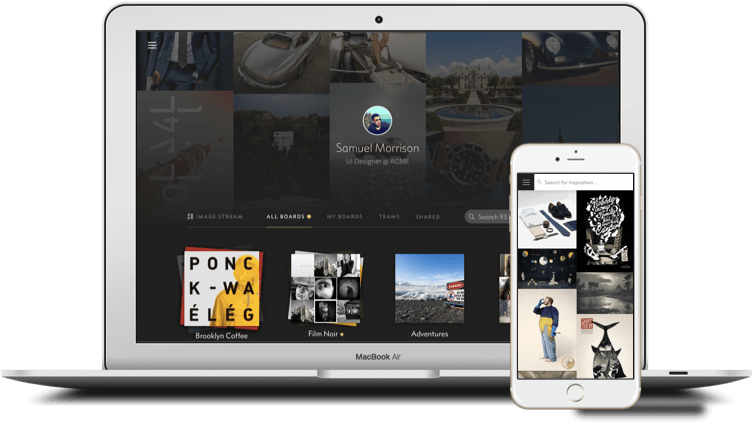
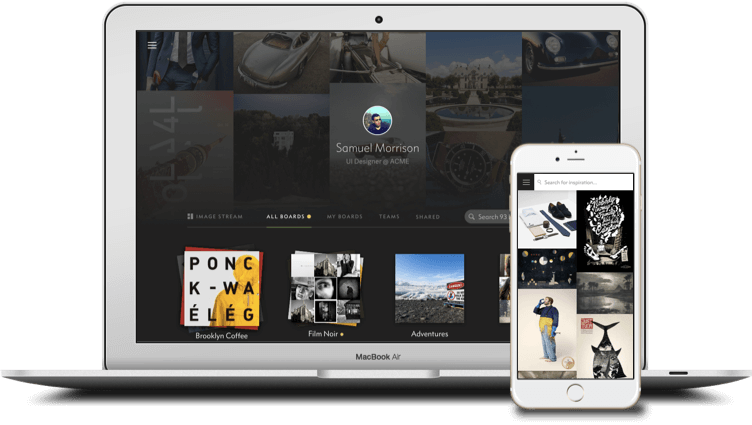
Fixed footer fade

Changed region(s): [[0.8258, 0.9176, 0.9481, 1.0], [0.6729, 0.9482, 0.7952, 1.0]]

diff --git a/_site/dist/css/style.css b/_site/dist/css/style.css
@@ -1,1 +1,1 @@
-body,figure,h1,h2,h3,h4,h5,h6,html,li,ol,p,ul{margin:0;padding:0}::selection,a,body{color:#3F3F3B}h2,h3,h4,h5,h6,nav{font-family:aktiv-grotesk,sans-serif}.button:focus,footer input[type=email]:focus,footer input[type=text]:focus{outline:0}.bd-home h1+p,article .narrow ol,article .narrow ul,h1,h2,h3,h4,h5,h6,nav,p{-webkit-font-smoothing:antialiased;-moz-osx-font-smoothing:grayscale}.bd-home h1+p,.header-tall,article .narrow ol,article .narrow ul,footer .button,h1,h2,h3,h4,h5,h6,nav,p{-webkit-font-smoothing:antialiased}.list-inline,.post-list,nav ul{list-style-type:none}::-moz-selection{color:#3F3F3B;background:gold}::selection{background:gold}*{box-sizing:border-box}body{line-height:1.4;font-family:ff-spinoza-web-pro,serif;font-size:14px}@media screen and (min-width:545px){body{font-size:16px}}p{font-size:1.31em;margin-bottom:1.4em}li{margin-bottom:.8em}h1{font-size:1.5em}h2,h3,h4,h5,h6{text-transform:uppercase;font-weight:700;font-size:1.19em;letter-spacing:3.5px;text-align:center}hr{border:none;margin:4.6em 0}hr.invisible{visibility:hidden}a{text-decoration:none;text-shadow:0 2px 0 #fff,2px 2px 0 #fff,-2px 2px 0 #fff;border-bottom:1px solid rgba(63,63,59,.2)}.no-underline,a:hover{border-bottom:none}.no-underline,a:hover,nav ul li a{text-shadow:none}a.logo{border:none}img{max-width:100%;height:auto}.heading-1,.heading-2,.heading-3{max-width:925px;display:block}.heading-2{max-width:873px}@media screen and (min-width:640px){.heading-2{margin-top:-1.6em;margin-bottom:-1em}}.heading-3{max-width:34vw}@media screen and (min-width:700px){.heading-3{max-width:273px}}.nav-get-in-touch{background:#fff;color:#000;mix-blend-mode:lighten;padding:.3em .6em}.container{max-width:78.88em;padding:0 1em;margin:0 auto}hr.crest,nav ul{margin-bottom:0}@media screen and (min-width:640px){.container{padding:0 2.6em}}.container.narrow{max-width:46.1em}hr{height:15px;background:url(../../img/hr.png)center center no-repeat;background-size:contain}hr.crest{height:60px;background-image:url(../../img/crest.png)}nav{padding:3.2em 0}nav.dark ul li a{color:#3F3F3B}nav.dark ul li a:hover{border-color:#3F3F3B}nav.dark ul li a.nav-get-in-touch{-webkit-transition:all .36s ease;transition:all .36s ease;border:none;background:#3F3F3B;color:#fff;mix-blend-mode:darken;padding:.3em .6em}nav.dark ul li a.nav-get-in-touch:hover{border:none;background:rgba(63,63,59,.2);color:#3F3F3B}nav ul{font-weight:700;font-size:1.06em;float:right;margin-top:.5em;white-space:nowrap;overflow-x:scroll;overflow-y:hidden;-webkit-overflow-scrolling:touch}.cover,footer,footer form{overflow:hidden}@media screen and (max-width:520px){nav ul{width:calc(100% - 38px)}}nav ul li{display:inline}nav ul li a{display:inline-block;margin-left:1.6em;color:#fff;border:none}nav ul li a.nav-get-in-touch{-webkit-transition:all .36s ease;transition:all .36s ease;border:none}nav ul li a.nav-get-in-touch:hover{border:none;background:rgba(255,255,255,.2);color:#fff}nav ul li a:hover{border-bottom:2px solid #fff}.cover{background:url(../../img/bg.jpg)center center no-repeat #3F3F3B;background-size:cover;max-height:100vh;margin-bottom:4.6em}.bd-home h1{margin:1.6em 0 1em}.bd-home h1+p{font-size:1.31em;opacity:1;max-width:22.2em;color:#fff;margin-bottom:2em;text-shadow:0 2px 6px rgba(0,0,0,.9)}.bd-home h2{margin-bottom:5.6em}.signature{display:inline-block;max-width:5.5em;max-height:3.38em;background-size:contain;margin-bottom:1.6em}@media screen and (min-width:612px){.signature{margin-top:-5.9em;margin-bottom:0;float:right}}.project{background:rgba(63,63,59,.1);position:relative;padding:2em 2.6em;margin-bottom:8.47em}@media screen and (min-width:1025px){.project{padding:3.6em 4.6em}}.project h3{text-align:left;margin-bottom:0}.article-cover p,.center,.title-big,article header h1,footer{text-align:center}.project.luha img,.project.niice img{right:auto;left:-4em}.project.lagom a,.project.lagom h3,.project.lagom p,.project.luha a,.project.luha h3,.project.luha p,.project.niice a,.project.niice h3,.project.niice p{color:#fff}.project img{pointer-events:none;margin-bottom:-6em}@media screen and (min-width:890px){.project img{position:absolute;bottom:-3em;right:-4em;margin-bottom:0;max-width:64%}}.project.luha:before,footer:before{content:'';top:0;left:0;right:0}.project.lagom a,.project.luha a,.project.niice a{color:#fff;border-bottom-color:#fff}.project.lagom a.no-underline,.project.luha a.no-underline,.project.niice a.no-underline{border-bottom:1px solid #fff}.project.lagom a.no-underline:hover,.project.luha a.no-underline:hover,.project.niice a.no-underline:hover{border-bottom:none}.project.lagom{background:url(../../img/bg-lagom.jpg)center center no-repeat #3F3F3B;background-size:cover}.project.luha,.project.niice{background:url(../../img/bg-luha.jpg)center center no-repeat #3F3F3B;background-size:cover}.project.luha h3,.project.luha p,.project.niice h3,.project.niice p{color:#fff}@media screen and (min-width:890px){.project .content{max-width:43%}.project.luha .content,.project.niice .content{margin-left:56%}}.project.luha:before{position:absolute;bottom:0;background:#171616;opacity:.2}.project.luha h3,.project.luha p,footer{position:relative}.project.niice{background:url(../../img/bg-niice.jpg)center center no-repeat #3F3F3B;background-size:cover}.project.niice h3,.project.niice p{color:#fff}.project .small-sans{opacity:.4}.project.lagom .small-sans{mix-blend-mode:overlay;opacity:.8}.header-tall{font-family:alternate-gothic-no-2-d,sans-serif;font-size:3.63em;letter-spacing:-.25px;text-transform:uppercase}.list-inline li{display:inline}.inline-block{display:inline-block}footer{color:#fff;padding:7.2em 1em 0;background:url(../../img/logs.jpg)center center no-repeat}footer:before{position:absolute;height:46px;background:url(../../img/footer-stripe.png)0 center repeat-x;background-size:1440px 46px}footer label{display:none}footer input[type=email],footer input[type=text]{padding:.6em .6em .3em;border:none;font-family:ff-spinoza-web-pro,serif;display:inline-block;vertical-align:top;font-size:1.31em;letter-spacing:-.13px;line-height:24px;-webkit-font-smoothing:antialiased}.small-sans,footer .copy,footer ul{text-transform:uppercase;font-family:aktiv-grotesk,sans-serif}footer .button{vertical-align:top;padding:.5em .8em .4em}footer form{background:#fff;display:inline-block;margin-bottom:2em;border:2px solid}.button,footer ul a{color:#fff;border:none}footer p{max-width:433px;margin:0 auto 1.6em}footer hr.crest,footer ul{margin-bottom:1.6em}footer ul{font-size:.81em;letter-spacing:1px}footer ul a{display:inline-block;padding:0 1em}footer .copy{font-size:.81em;opacity:.6;margin-bottom:2.6em}.small-sans{font-size:.88em;font-weight:700;letter-spacing:.87px}.button{background:#0D2237;font-family:alternate-gothic-no-2-d,sans-serif;font-size:1.44em;letter-spacing:.6px;cursor:pointer;-webkit-appearance:none;text-transform:uppercase}article{margin-bottom:5.6em}article .narrow ol,article .narrow ul{font-size:1.31em;margin-bottom:1.6em;margin-left:1em}article .narrow ol li,article .narrow ul li{margin-bottom:.7em}article header{padding:0 0 5.6em;margin-bottom:2.6em;position:relative}article header h1{font-size:2.88em;line-height:1.2;margin-bottom:.3em}article header .date{text-align:center;font-size:1.19em;letter-spacing:-.13px;line-height:24px;margin-bottom:2.6em}article .container.narrow p:first-of-type{font-size:1.56em;letter-spacing:-.15px}.article-cover{color:#fff;min-height:90vh}@media screen and (min-height:640px){.article-cover .meta{position:absolute;bottom:0;left:0;right:0}}.article-cover p{font-size:1.31em;letter-spacing:-.13px;max-width:642px;margin:0 auto 1em}.center{display:-webkit-box;display:-webkit-flex;display:-ms-flexbox;display:flex;-webkit-box-align:center;-webkit-align-items:center;-ms-flex-align:center;align-items:center;-webkit-box-pack:center;-webkit-justify-content:center;-ms-flex-pack:center;justify-content:center}.meta{padding:1em}.meta.gradient{padding-top:1em;background-image:-webkit-linear-gradient(270deg,rgba(55,55,55,0) 0,#373737 100%);background-image:linear-gradient(-180deg,rgba(55,55,55,0) 0,#373737 100%)}.post-list li{margin-bottom:4.236em}.post-list .date{opacity:.6}.title-big{font-size:4.6em;margin:.6em 0 1em}
+body,figure,h1,h2,h3,h4,h5,h6,html,li,ol,p,ul{margin:0;padding:0}::selection,a,body{color:#3F3F3B}h2,h3,h4,h5,h6,nav{font-family:aktiv-grotesk,sans-serif}.button:focus,footer input[type=email]:focus,footer input[type=text]:focus{outline:0}.bd-home h1+p,article .narrow ol,article .narrow ul,h1,h2,h3,h4,h5,h6,nav,p{-webkit-font-smoothing:antialiased;-moz-osx-font-smoothing:grayscale}.bd-home h1+p,.header-tall,article .narrow ol,article .narrow ul,footer .button,h1,h2,h3,h4,h5,h6,nav,p{-webkit-font-smoothing:antialiased}.list-inline,.post-list,nav ul{list-style-type:none}::-moz-selection{color:#3F3F3B;background:gold}::selection{background:gold}*{box-sizing:border-box}body{line-height:1.4;font-family:ff-spinoza-web-pro,serif;font-size:14px}@media screen and (min-width:545px){body{font-size:16px}}p{font-size:1.31em;margin-bottom:1.4em}li{margin-bottom:.8em}h1{font-size:1.5em}h2,h3,h4,h5,h6{text-transform:uppercase;font-weight:700;font-size:1.19em;letter-spacing:3.5px;text-align:center}hr{border:none;margin:4.6em 0}hr.invisible{visibility:hidden}a{text-decoration:none;text-shadow:0 2px 0 #fff,2px 2px 0 #fff,-2px 2px 0 #fff;border-bottom:1px solid rgba(63,63,59,.2)}.no-underline,a:hover{border-bottom:none}.no-underline,a:hover,nav ul li a{text-shadow:none}a.logo{border:none}img{max-width:100%;height:auto}.heading-1,.heading-2,.heading-3{max-width:925px;display:block}.heading-2{max-width:873px}@media screen and (min-width:640px){.heading-2{margin-top:-1.6em;margin-bottom:-1em}}.heading-3{max-width:34vw}@media screen and (min-width:700px){.heading-3{max-width:273px}}.nav-get-in-touch{background:#fff;color:#000;mix-blend-mode:lighten;padding:.3em .6em}.container{max-width:78.88em;padding:0 1em;margin:0 auto}hr.crest,nav ul{margin-bottom:0}@media screen and (min-width:640px){.container{padding:0 2.6em}}.container.narrow{max-width:46.1em}hr{height:15px;background:url(../../img/hr.png)center center no-repeat;background-size:contain}hr.crest{height:60px;background-image:url(../../img/crest.png)}nav{padding:3.2em 0}nav.dark ul li a{color:#3F3F3B}nav.dark ul li a:hover{border-color:#3F3F3B}nav.dark ul li a.nav-get-in-touch{-webkit-transition:all .36s ease;transition:all .36s ease;border:none;background:#3F3F3B;color:#fff;mix-blend-mode:darken;padding:.3em .6em}nav.dark ul li a.nav-get-in-touch:hover{border:none;background:rgba(63,63,59,.2);color:#3F3F3B}nav ul{font-weight:700;font-size:1.06em;float:right;margin-top:.5em;white-space:nowrap;overflow-x:scroll;overflow-y:hidden;-webkit-overflow-scrolling:touch}.cover,footer,footer form{overflow:hidden}@media screen and (max-width:520px){nav ul{width:calc(100% - 38px)}}nav ul li{display:inline}nav ul li a{display:inline-block;margin-left:1.6em;color:#fff;border:none}nav ul li a.nav-get-in-touch{-webkit-transition:all .36s ease;transition:all .36s ease;border:none}nav ul li a.nav-get-in-touch:hover{border:none;background:rgba(255,255,255,.2);color:#fff}nav ul li a:hover{border-bottom:2px solid #fff}.cover{background:url(../../img/bg.jpg)center center no-repeat #3F3F3B;background-size:cover;max-height:100vh;margin-bottom:4.6em}.bd-home h1{margin:1.6em 0 1em}.bd-home h1+p{font-size:1.31em;opacity:1;max-width:22.2em;color:#fff;margin-bottom:2em;text-shadow:0 2px 6px rgba(0,0,0,.9)}.bd-home h2{margin-bottom:5.6em}.signature{display:inline-block;max-width:5.5em;max-height:3.38em;background-size:contain;margin-bottom:1.6em}@media screen and (min-width:612px){.signature{margin-top:-5.9em;margin-bottom:0;float:right}}.project{background:rgba(63,63,59,.1);position:relative;padding:2em 2.6em;margin-bottom:8.47em}@media screen and (min-width:1025px){.project{padding:3.6em 4.6em}}.project h3{text-align:left;margin-bottom:0}.article-cover p,.center,.title-big,article header h1,footer{text-align:center}.project.luha img,.project.niice img{right:auto;left:-4em}.project.lagom a,.project.lagom h3,.project.lagom p,.project.luha a,.project.luha h3,.project.luha p,.project.niice a,.project.niice h3,.project.niice p{color:#fff}.project img{pointer-events:none;margin-bottom:-6em}.project.lagom a,.project.luha a,.project.niice a{color:#fff;border-bottom-color:#fff}.project.lagom a.no-underline,.project.luha a.no-underline,.project.niice a.no-underline{border-bottom:1px solid #fff}.project.lagom a.no-underline:hover,.project.luha a.no-underline:hover,.project.niice a.no-underline:hover{border-bottom:none}.project.lagom{background:url(../../img/bg-lagom.jpg)center center no-repeat #3F3F3B;background-size:cover}.project.luha,.project.niice{background:url(../../img/bg-luha.jpg)center center no-repeat #3F3F3B;background-size:cover}.project.luha h3,.project.luha p,.project.niice h3,.project.niice p{color:#fff}@media screen and (min-width:890px){.project img{position:absolute;bottom:-3em;right:-4em;margin-bottom:0;max-width:64%}.project .content{max-width:43%}.project.luha .content,.project.niice .content{margin-left:56%}}.project.luha:before{content:'';position:absolute;top:0;left:0;bottom:0;right:0;background:#171616;opacity:.2}#mc_embed_signup,.project.luha h3,.project.luha p,footer{position:relative}.project.niice{background:url(../../img/bg-niice.jpg)center center no-repeat #3F3F3B;background-size:cover}.project.niice h3,.project.niice p{color:#fff}.project .small-sans{opacity:.4}.project.lagom .small-sans{mix-blend-mode:overlay;opacity:.8}.header-tall{font-family:alternate-gothic-no-2-d,sans-serif;font-size:3.63em;letter-spacing:-.25px;text-transform:uppercase}.list-inline li{display:inline}.inline-block{display:inline-block}#mc_embed_signup{z-index:2}footer:after,footer:before{content:'';position:absolute;left:0;right:0}footer{color:#fff;padding:7.2em 1em 0;background:url(../../img/logs.jpg)center center no-repeat}footer:after{bottom:0;background-image:-webkit-linear-gradient(270deg,rgba(12,34,55,0) 0,#0D2237 100%);background-image:linear-gradient(-180deg,rgba(12,34,55,0) 0,#0D2237 100%);height:50%;z-index:1}footer:before{top:0;height:46px;background:url(../../img/footer-stripe.png)0 center repeat-x;background-size:1440px 46px}footer label{display:none}footer input[type=email],footer input[type=text]{padding:.6em .6em .3em;border:none;font-family:ff-spinoza-web-pro,serif;display:inline-block;vertical-align:top;font-size:1.31em;letter-spacing:-.13px;line-height:24px;-webkit-font-smoothing:antialiased}.small-sans,footer .copy,footer ul{text-transform:uppercase;font-family:aktiv-grotesk,sans-serif}footer .button{vertical-align:top;padding:.5em .8em .4em}footer form{background:#fff;display:inline-block;margin-bottom:2em;border:2px solid}.button,footer ul a{color:#fff;border:none}footer p{max-width:433px;margin:0 auto 1.6em}footer hr.crest,footer ul{margin-bottom:1.6em}footer ul{font-size:.81em;letter-spacing:1px}footer ul a{display:inline-block;padding:0 1em}footer .copy{font-size:.81em;opacity:.6;margin-bottom:2.6em}.small-sans{font-size:.88em;font-weight:700;letter-spacing:.87px}.button{background:#0D2237;font-family:alternate-gothic-no-2-d,sans-serif;font-size:1.44em;letter-spacing:.6px;cursor:pointer;-webkit-appearance:none;text-transform:uppercase}article{margin-bottom:5.6em}article .narrow ol,article .narrow ul{font-size:1.31em;margin-bottom:1.6em;margin-left:1em}article .narrow ol li,article .narrow ul li{margin-bottom:.7em}article header{padding:0 0 5.6em;margin-bottom:2.6em;position:relative}article header h1{font-size:2.88em;line-height:1.2;margin-bottom:.3em}article header .date{text-align:center;font-size:1.19em;letter-spacing:-.13px;line-height:24px;margin-bottom:2.6em}article .container.narrow p:first-of-type{font-size:1.56em;letter-spacing:-.15px}.article-cover{color:#fff;min-height:90vh}@media screen and (min-height:640px){.article-cover .meta{position:absolute;bottom:0;left:0;right:0}}.article-cover p{font-size:1.31em;letter-spacing:-.13px;max-width:642px;margin:0 auto 1em}.center{display:-webkit-box;display:-webkit-flex;display:-ms-flexbox;display:flex;-webkit-box-align:center;-webkit-align-items:center;-ms-flex-align:center;align-items:center;-webkit-box-pack:center;-webkit-justify-content:center;-ms-flex-pack:center;justify-content:center}.meta{padding:1em}.meta.gradient{padding-top:1em;background-image:-webkit-linear-gradient(270deg,rgba(55,55,55,0) 0,#373737 100%);background-image:linear-gradient(-180deg,rgba(55,55,55,0) 0,#373737 100%)}.post-list li{margin-bottom:4.236em}.post-list .date{opacity:.6}.title-big{font-size:4.6em;margin:.6em 0 1em}

diff --git a/dist/css/style.css b/dist/css/style.css
@@ -1,1 +1,1 @@
-body,figure,h1,h2,h3,h4,h5,h6,html,li,ol,p,ul{margin:0;padding:0}::selection,a,body{color:#3F3F3B}h2,h3,h4,h5,h6,nav{font-family:aktiv-grotesk,sans-serif}.button:focus,footer input[type=email]:focus,footer input[type=text]:focus{outline:0}.bd-home h1+p,article .narrow ol,article .narrow ul,h1,h2,h3,h4,h5,h6,nav,p{-webkit-font-smoothing:antialiased;-moz-osx-font-smoothing:grayscale}.bd-home h1+p,.header-tall,article .narrow ol,article .narrow ul,footer .button,h1,h2,h3,h4,h5,h6,nav,p{-webkit-font-smoothing:antialiased}.list-inline,.post-list,nav ul{list-style-type:none}::-moz-selection{color:#3F3F3B;background:gold}::selection{background:gold}*{box-sizing:border-box}body{line-height:1.4;font-family:ff-spinoza-web-pro,serif;font-size:14px}@media screen and (min-width:545px){body{font-size:16px}}p{font-size:1.31em;margin-bottom:1.4em}li{margin-bottom:.8em}h1{font-size:1.5em}h2,h3,h4,h5,h6{text-transform:uppercase;font-weight:700;font-size:1.19em;letter-spacing:3.5px;text-align:center}hr{border:none;margin:4.6em 0}hr.invisible{visibility:hidden}a{text-decoration:none;text-shadow:0 2px 0 #fff,2px 2px 0 #fff,-2px 2px 0 #fff;border-bottom:1px solid rgba(63,63,59,.2)}.no-underline,a:hover{border-bottom:none}.no-underline,a:hover,nav ul li a{text-shadow:none}a.logo{border:none}img{max-width:100%;height:auto}.heading-1,.heading-2,.heading-3{max-width:925px;display:block}.heading-2{max-width:873px}@media screen and (min-width:640px){.heading-2{margin-top:-1.6em;margin-bottom:-1em}}.heading-3{max-width:34vw}@media screen and (min-width:700px){.heading-3{max-width:273px}}.nav-get-in-touch{background:#fff;color:#000;mix-blend-mode:lighten;padding:.3em .6em}.container{max-width:78.88em;padding:0 1em;margin:0 auto}hr.crest,nav ul{margin-bottom:0}@media screen and (min-width:640px){.container{padding:0 2.6em}}.container.narrow{max-width:46.1em}hr{height:15px;background:url(../../img/hr.png)center center no-repeat;background-size:contain}hr.crest{height:60px;background-image:url(../../img/crest.png)}nav{padding:3.2em 0}nav.dark ul li a{color:#3F3F3B}nav.dark ul li a:hover{border-color:#3F3F3B}nav.dark ul li a.nav-get-in-touch{-webkit-transition:all .36s ease;transition:all .36s ease;border:none;background:#3F3F3B;color:#fff;mix-blend-mode:darken;padding:.3em .6em}nav.dark ul li a.nav-get-in-touch:hover{border:none;background:rgba(63,63,59,.2);color:#3F3F3B}nav ul{font-weight:700;font-size:1.06em;float:right;margin-top:.5em;white-space:nowrap;overflow-x:scroll;overflow-y:hidden;-webkit-overflow-scrolling:touch}.cover,footer,footer form{overflow:hidden}@media screen and (max-width:520px){nav ul{width:calc(100% - 38px)}}nav ul li{display:inline}nav ul li a{display:inline-block;margin-left:1.6em;color:#fff;border:none}nav ul li a.nav-get-in-touch{-webkit-transition:all .36s ease;transition:all .36s ease;border:none}nav ul li a.nav-get-in-touch:hover{border:none;background:rgba(255,255,255,.2);color:#fff}nav ul li a:hover{border-bottom:2px solid #fff}.cover{background:url(../../img/bg.jpg)center center no-repeat #3F3F3B;background-size:cover;max-height:100vh;margin-bottom:4.6em}.bd-home h1{margin:1.6em 0 1em}.bd-home h1+p{font-size:1.31em;opacity:1;max-width:22.2em;color:#fff;margin-bottom:2em;text-shadow:0 2px 6px rgba(0,0,0,.9)}.bd-home h2{margin-bottom:5.6em}.signature{display:inline-block;max-width:5.5em;max-height:3.38em;background-size:contain;margin-bottom:1.6em}@media screen and (min-width:612px){.signature{margin-top:-5.9em;margin-bottom:0;float:right}}.project{background:rgba(63,63,59,.1);position:relative;padding:2em 2.6em;margin-bottom:8.47em}@media screen and (min-width:1025px){.project{padding:3.6em 4.6em}}.project h3{text-align:left;margin-bottom:0}.article-cover p,.center,.title-big,article header h1,footer{text-align:center}.project.luha img,.project.niice img{right:auto;left:-4em}.project.lagom a,.project.lagom h3,.project.lagom p,.project.luha a,.project.luha h3,.project.luha p,.project.niice a,.project.niice h3,.project.niice p{color:#fff}.project img{pointer-events:none;margin-bottom:-6em}@media screen and (min-width:890px){.project img{position:absolute;bottom:-3em;right:-4em;margin-bottom:0;max-width:64%}}.project.luha:before,footer:before{content:'';top:0;left:0;right:0}.project.lagom a,.project.luha a,.project.niice a{color:#fff;border-bottom-color:#fff}.project.lagom a.no-underline,.project.luha a.no-underline,.project.niice a.no-underline{border-bottom:1px solid #fff}.project.lagom a.no-underline:hover,.project.luha a.no-underline:hover,.project.niice a.no-underline:hover{border-bottom:none}.project.lagom{background:url(../../img/bg-lagom.jpg)center center no-repeat #3F3F3B;background-size:cover}.project.luha,.project.niice{background:url(../../img/bg-luha.jpg)center center no-repeat #3F3F3B;background-size:cover}.project.luha h3,.project.luha p,.project.niice h3,.project.niice p{color:#fff}@media screen and (min-width:890px){.project .content{max-width:43%}.project.luha .content,.project.niice .content{margin-left:56%}}.project.luha:before{position:absolute;bottom:0;background:#171616;opacity:.2}.project.luha h3,.project.luha p,footer{position:relative}.project.niice{background:url(../../img/bg-niice.jpg)center center no-repeat #3F3F3B;background-size:cover}.project.niice h3,.project.niice p{color:#fff}.project .small-sans{opacity:.4}.project.lagom .small-sans{mix-blend-mode:overlay;opacity:.8}.header-tall{font-family:alternate-gothic-no-2-d,sans-serif;font-size:3.63em;letter-spacing:-.25px;text-transform:uppercase}.list-inline li{display:inline}.inline-block{display:inline-block}footer{color:#fff;padding:7.2em 1em 0;background:url(../../img/logs.jpg)center center no-repeat}footer:before{position:absolute;height:46px;background:url(../../img/footer-stripe.png)0 center repeat-x;background-size:1440px 46px}footer label{display:none}footer input[type=email],footer input[type=text]{padding:.6em .6em .3em;border:none;font-family:ff-spinoza-web-pro,serif;display:inline-block;vertical-align:top;font-size:1.31em;letter-spacing:-.13px;line-height:24px;-webkit-font-smoothing:antialiased}.small-sans,footer .copy,footer ul{text-transform:uppercase;font-family:aktiv-grotesk,sans-serif}footer .button{vertical-align:top;padding:.5em .8em .4em}footer form{background:#fff;display:inline-block;margin-bottom:2em;border:2px solid}.button,footer ul a{color:#fff;border:none}footer p{max-width:433px;margin:0 auto 1.6em}footer hr.crest,footer ul{margin-bottom:1.6em}footer ul{font-size:.81em;letter-spacing:1px}footer ul a{display:inline-block;padding:0 1em}footer .copy{font-size:.81em;opacity:.6;margin-bottom:2.6em}.small-sans{font-size:.88em;font-weight:700;letter-spacing:.87px}.button{background:#0D2237;font-family:alternate-gothic-no-2-d,sans-serif;font-size:1.44em;letter-spacing:.6px;cursor:pointer;-webkit-appearance:none;text-transform:uppercase}article{margin-bottom:5.6em}article .narrow ol,article .narrow ul{font-size:1.31em;margin-bottom:1.6em;margin-left:1em}article .narrow ol li,article .narrow ul li{margin-bottom:.7em}article header{padding:0 0 5.6em;margin-bottom:2.6em;position:relative}article header h1{font-size:2.88em;line-height:1.2;margin-bottom:.3em}article header .date{text-align:center;font-size:1.19em;letter-spacing:-.13px;line-height:24px;margin-bottom:2.6em}article .container.narrow p:first-of-type{font-size:1.56em;letter-spacing:-.15px}.article-cover{color:#fff;min-height:90vh}@media screen and (min-height:640px){.article-cover .meta{position:absolute;bottom:0;left:0;right:0}}.article-cover p{font-size:1.31em;letter-spacing:-.13px;max-width:642px;margin:0 auto 1em}.center{display:-webkit-box;display:-webkit-flex;display:-ms-flexbox;display:flex;-webkit-box-align:center;-webkit-align-items:center;-ms-flex-align:center;align-items:center;-webkit-box-pack:center;-webkit-justify-content:center;-ms-flex-pack:center;justify-content:center}.meta{padding:1em}.meta.gradient{padding-top:1em;background-image:-webkit-linear-gradient(270deg,rgba(55,55,55,0) 0,#373737 100%);background-image:linear-gradient(-180deg,rgba(55,55,55,0) 0,#373737 100%)}.post-list li{margin-bottom:4.236em}.post-list .date{opacity:.6}.title-big{font-size:4.6em;margin:.6em 0 1em}
+body,figure,h1,h2,h3,h4,h5,h6,html,li,ol,p,ul{margin:0;padding:0}::selection,a,body{color:#3F3F3B}h2,h3,h4,h5,h6,nav{font-family:aktiv-grotesk,sans-serif}.button:focus,footer input[type=email]:focus,footer input[type=text]:focus{outline:0}.bd-home h1+p,article .narrow ol,article .narrow ul,h1,h2,h3,h4,h5,h6,nav,p{-webkit-font-smoothing:antialiased;-moz-osx-font-smoothing:grayscale}.bd-home h1+p,.header-tall,article .narrow ol,article .narrow ul,footer .button,h1,h2,h3,h4,h5,h6,nav,p{-webkit-font-smoothing:antialiased}.list-inline,.post-list,nav ul{list-style-type:none}::-moz-selection{color:#3F3F3B;background:gold}::selection{background:gold}*{box-sizing:border-box}body{line-height:1.4;font-family:ff-spinoza-web-pro,serif;font-size:14px}@media screen and (min-width:545px){body{font-size:16px}}p{font-size:1.31em;margin-bottom:1.4em}li{margin-bottom:.8em}h1{font-size:1.5em}h2,h3,h4,h5,h6{text-transform:uppercase;font-weight:700;font-size:1.19em;letter-spacing:3.5px;text-align:center}hr{border:none;margin:4.6em 0}hr.invisible{visibility:hidden}a{text-decoration:none;text-shadow:0 2px 0 #fff,2px 2px 0 #fff,-2px 2px 0 #fff;border-bottom:1px solid rgba(63,63,59,.2)}.no-underline,a:hover{border-bottom:none}.no-underline,a:hover,nav ul li a{text-shadow:none}a.logo{border:none}img{max-width:100%;height:auto}.heading-1,.heading-2,.heading-3{max-width:925px;display:block}.heading-2{max-width:873px}@media screen and (min-width:640px){.heading-2{margin-top:-1.6em;margin-bottom:-1em}}.heading-3{max-width:34vw}@media screen and (min-width:700px){.heading-3{max-width:273px}}.nav-get-in-touch{background:#fff;color:#000;mix-blend-mode:lighten;padding:.3em .6em}.container{max-width:78.88em;padding:0 1em;margin:0 auto}hr.crest,nav ul{margin-bottom:0}@media screen and (min-width:640px){.container{padding:0 2.6em}}.container.narrow{max-width:46.1em}hr{height:15px;background:url(../../img/hr.png)center center no-repeat;background-size:contain}hr.crest{height:60px;background-image:url(../../img/crest.png)}nav{padding:3.2em 0}nav.dark ul li a{color:#3F3F3B}nav.dark ul li a:hover{border-color:#3F3F3B}nav.dark ul li a.nav-get-in-touch{-webkit-transition:all .36s ease;transition:all .36s ease;border:none;background:#3F3F3B;color:#fff;mix-blend-mode:darken;padding:.3em .6em}nav.dark ul li a.nav-get-in-touch:hover{border:none;background:rgba(63,63,59,.2);color:#3F3F3B}nav ul{font-weight:700;font-size:1.06em;float:right;margin-top:.5em;white-space:nowrap;overflow-x:scroll;overflow-y:hidden;-webkit-overflow-scrolling:touch}.cover,footer,footer form{overflow:hidden}@media screen and (max-width:520px){nav ul{width:calc(100% - 38px)}}nav ul li{display:inline}nav ul li a{display:inline-block;margin-left:1.6em;color:#fff;border:none}nav ul li a.nav-get-in-touch{-webkit-transition:all .36s ease;transition:all .36s ease;border:none}nav ul li a.nav-get-in-touch:hover{border:none;background:rgba(255,255,255,.2);color:#fff}nav ul li a:hover{border-bottom:2px solid #fff}.cover{background:url(../../img/bg.jpg)center center no-repeat #3F3F3B;background-size:cover;max-height:100vh;margin-bottom:4.6em}.bd-home h1{margin:1.6em 0 1em}.bd-home h1+p{font-size:1.31em;opacity:1;max-width:22.2em;color:#fff;margin-bottom:2em;text-shadow:0 2px 6px rgba(0,0,0,.9)}.bd-home h2{margin-bottom:5.6em}.signature{display:inline-block;max-width:5.5em;max-height:3.38em;background-size:contain;margin-bottom:1.6em}@media screen and (min-width:612px){.signature{margin-top:-5.9em;margin-bottom:0;float:right}}.project{background:rgba(63,63,59,.1);position:relative;padding:2em 2.6em;margin-bottom:8.47em}@media screen and (min-width:1025px){.project{padding:3.6em 4.6em}}.project h3{text-align:left;margin-bottom:0}.article-cover p,.center,.title-big,article header h1,footer{text-align:center}.project.luha img,.project.niice img{right:auto;left:-4em}.project.lagom a,.project.lagom h3,.project.lagom p,.project.luha a,.project.luha h3,.project.luha p,.project.niice a,.project.niice h3,.project.niice p{color:#fff}.project img{pointer-events:none;margin-bottom:-6em}.project.lagom a,.project.luha a,.project.niice a{color:#fff;border-bottom-color:#fff}.project.lagom a.no-underline,.project.luha a.no-underline,.project.niice a.no-underline{border-bottom:1px solid #fff}.project.lagom a.no-underline:hover,.project.luha a.no-underline:hover,.project.niice a.no-underline:hover{border-bottom:none}.project.lagom{background:url(../../img/bg-lagom.jpg)center center no-repeat #3F3F3B;background-size:cover}.project.luha,.project.niice{background:url(../../img/bg-luha.jpg)center center no-repeat #3F3F3B;background-size:cover}.project.luha h3,.project.luha p,.project.niice h3,.project.niice p{color:#fff}@media screen and (min-width:890px){.project img{position:absolute;bottom:-3em;right:-4em;margin-bottom:0;max-width:64%}.project .content{max-width:43%}.project.luha .content,.project.niice .content{margin-left:56%}}.project.luha:before{content:'';position:absolute;top:0;left:0;bottom:0;right:0;background:#171616;opacity:.2}#mc_embed_signup,.project.luha h3,.project.luha p,footer{position:relative}.project.niice{background:url(../../img/bg-niice.jpg)center center no-repeat #3F3F3B;background-size:cover}.project.niice h3,.project.niice p{color:#fff}.project .small-sans{opacity:.4}.project.lagom .small-sans{mix-blend-mode:overlay;opacity:.8}.header-tall{font-family:alternate-gothic-no-2-d,sans-serif;font-size:3.63em;letter-spacing:-.25px;text-transform:uppercase}.list-inline li{display:inline}.inline-block{display:inline-block}#mc_embed_signup{z-index:2}footer:after,footer:before{content:'';position:absolute;left:0;right:0}footer{color:#fff;padding:7.2em 1em 0;background:url(../../img/logs.jpg)center center no-repeat}footer:after{bottom:0;background-image:-webkit-linear-gradient(270deg,rgba(12,34,55,0) 0,#0D2237 100%);background-image:linear-gradient(-180deg,rgba(12,34,55,0) 0,#0D2237 100%);height:50%;z-index:1}footer:before{top:0;height:46px;background:url(../../img/footer-stripe.png)0 center repeat-x;background-size:1440px 46px}footer label{display:none}footer input[type=email],footer input[type=text]{padding:.6em .6em .3em;border:none;font-family:ff-spinoza-web-pro,serif;display:inline-block;vertical-align:top;font-size:1.31em;letter-spacing:-.13px;line-height:24px;-webkit-font-smoothing:antialiased}.small-sans,footer .copy,footer ul{text-transform:uppercase;font-family:aktiv-grotesk,sans-serif}footer .button{vertical-align:top;padding:.5em .8em .4em}footer form{background:#fff;display:inline-block;margin-bottom:2em;border:2px solid}.button,footer ul a{color:#fff;border:none}footer p{max-width:433px;margin:0 auto 1.6em}footer hr.crest,footer ul{margin-bottom:1.6em}footer ul{font-size:.81em;letter-spacing:1px}footer ul a{display:inline-block;padding:0 1em}footer .copy{font-size:.81em;opacity:.6;margin-bottom:2.6em}.small-sans{font-size:.88em;font-weight:700;letter-spacing:.87px}.button{background:#0D2237;font-family:alternate-gothic-no-2-d,sans-serif;font-size:1.44em;letter-spacing:.6px;cursor:pointer;-webkit-appearance:none;text-transform:uppercase}article{margin-bottom:5.6em}article .narrow ol,article .narrow ul{font-size:1.31em;margin-bottom:1.6em;margin-left:1em}article .narrow ol li,article .narrow ul li{margin-bottom:.7em}article header{padding:0 0 5.6em;margin-bottom:2.6em;position:relative}article header h1{font-size:2.88em;line-height:1.2;margin-bottom:.3em}article header .date{text-align:center;font-size:1.19em;letter-spacing:-.13px;line-height:24px;margin-bottom:2.6em}article .container.narrow p:first-of-type{font-size:1.56em;letter-spacing:-.15px}.article-cover{color:#fff;min-height:90vh}@media screen and (min-height:640px){.article-cover .meta{position:absolute;bottom:0;left:0;right:0}}.article-cover p{font-size:1.31em;letter-spacing:-.13px;max-width:642px;margin:0 auto 1em}.center{display:-webkit-box;display:-webkit-flex;display:-ms-flexbox;display:flex;-webkit-box-align:center;-webkit-align-items:center;-ms-flex-align:center;align-items:center;-webkit-box-pack:center;-webkit-justify-content:center;-ms-flex-pack:center;justify-content:center}.meta{padding:1em}.meta.gradient{padding-top:1em;background-image:-webkit-linear-gradient(270deg,rgba(55,55,55,0) 0,#373737 100%);background-image:linear-gradient(-180deg,rgba(55,55,55,0) 0,#373737 100%)}.post-list li{margin-bottom:4.236em}.post-list .date{opacity:.6}.title-big{font-size:4.6em;margin:.6em 0 1em}

diff --git a/_site/css/style.scss b/_site/css/style.scss
@@ -385,6 +385,10 @@ nav {
 .inline-block {
 	display: inline-block;
 }
+#mc_embed_signup {
+	position: relative;
+	z-index: 2;
+}
 footer {
 	text-align: center;
 	color: #fff;
@@ -392,6 +396,16 @@ footer {
 	position: relative;
 	padding: 7.2em 1em 0;
 	background: url(../../img/logs.jpg) center center no-repeat;
+	&:after {
+		content: '';
+		position: absolute;
+		bottom: 0;
+		left: 0;
+		right: 0;
+		background-image: linear-gradient(-180deg, rgba(12,34,55,0.00) 0%, #0D2237 100%);
+		height: 50%;
+		z-index: 1;
+	}
 	&:before {
 		content: '';
 		position: absolute;

diff --git a/css/style.scss b/css/style.scss
@@ -385,6 +385,10 @@ nav {
 .inline-block {
 	display: inline-block;
 }
+#mc_embed_signup {
+	position: relative;
+	z-index: 2;
+}
 footer {
 	text-align: center;
 	color: #fff;
@@ -392,6 +396,16 @@ footer {
 	position: relative;
 	padding: 7.2em 1em 0;
 	background: url(../../img/logs.jpg) center center no-repeat;
+	&:after {
+		content: '';
+		position: absolute;
+		bottom: 0;
+		left: 0;
+		right: 0;
+		background-image: linear-gradient(-180deg, rgba(12,34,55,0.00) 0%, #0D2237 100%);
+		height: 50%;
+		z-index: 1;
+	}
 	&:before {
 		content: '';
 		position: absolute;
